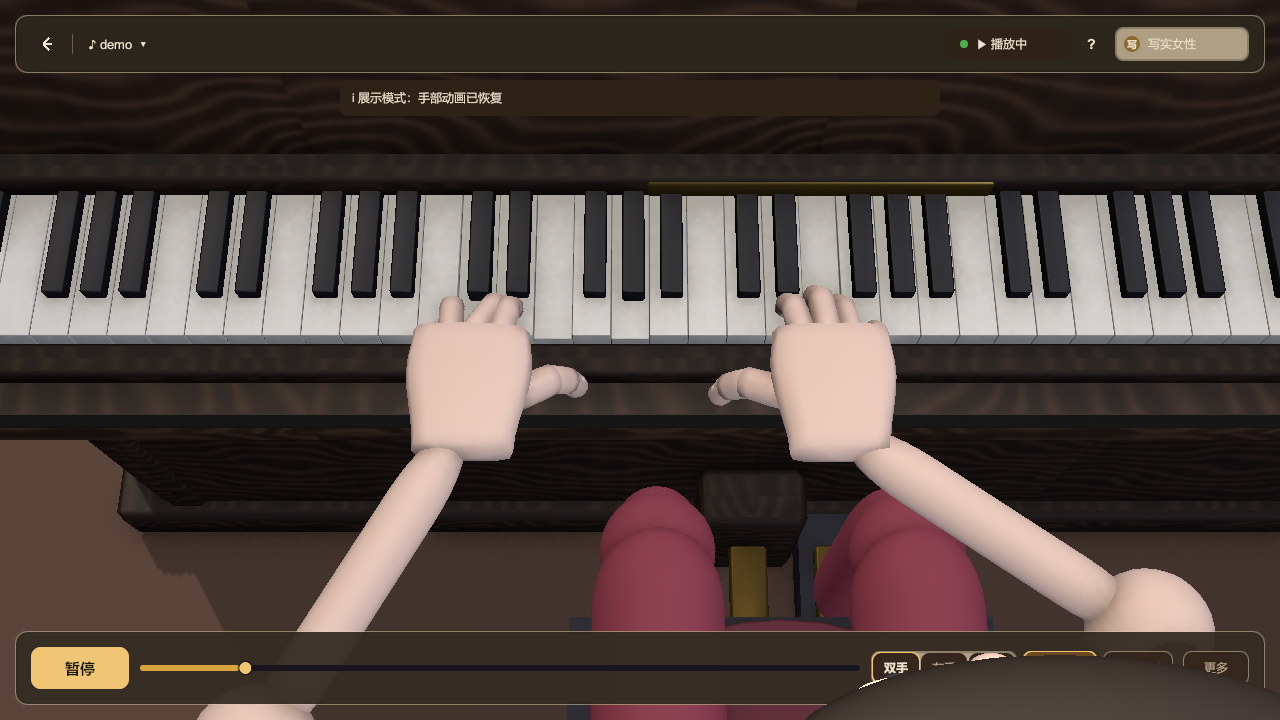
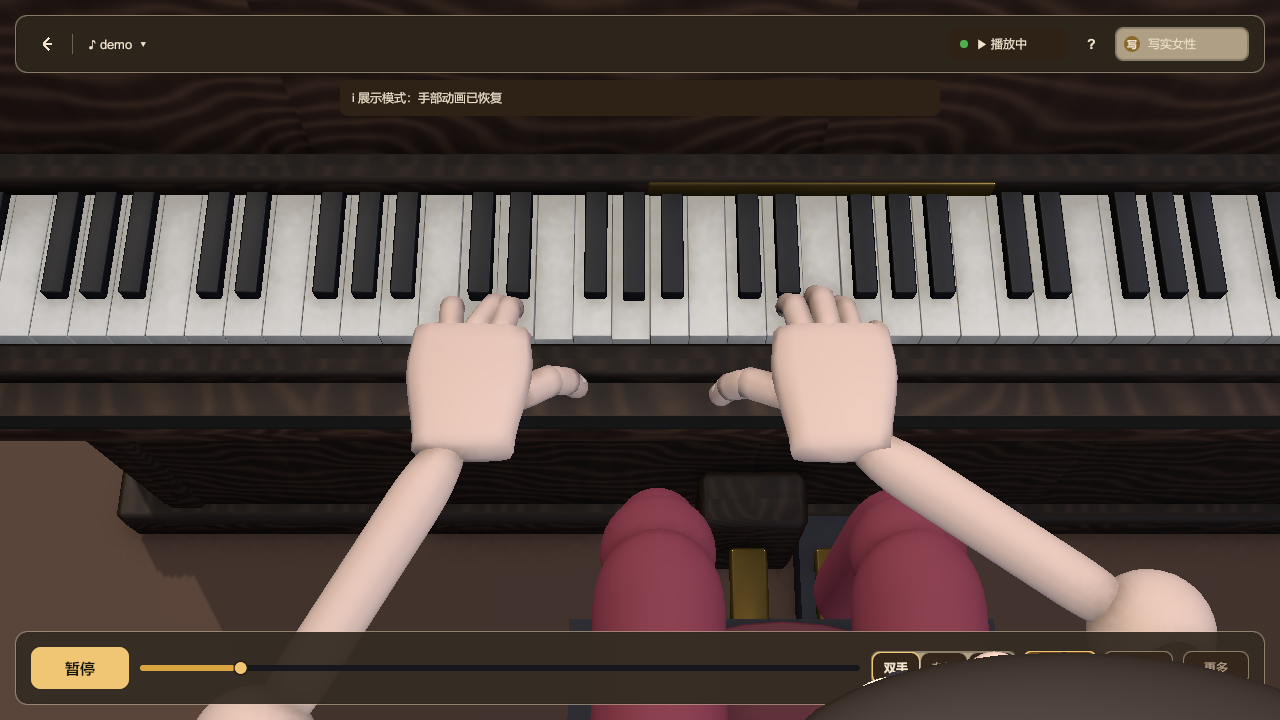
feat(render): 全局 Volume（Bloom/Vignette/色彩微调）+ 相机后处理开关
- 新增 Assets/Scripts/Core/ScenePostProcessing.cs：装配期建全局 Volume，
  Bloom(0.92/0.16) 只吃黄铜与高光、Vignette(0.18) 收拢视线、
  ColorAdjustments(对比 +9 / 饱和 +3 / 暖色滤镜)；
- LessonSessionController.BuildScene 在相机参数就绪后调用它，
  并给主相机打开 renderPostProcessing；
- 重采视觉基线（V19/V18 等已带后处理）。

验证：CaptureLessonViews 5/5 通过；全量 EditMode/PlayMode 回归留到下次。

diff --git a/Assets/Scripts/Core/ScenePostProcessing.cs b/Assets/Scripts/Core/ScenePostProcessing.cs
@@ -1,0 +1,74 @@
+using UnityEngine;
+using UnityEngine.Rendering;
+using UnityEngine.Rendering.Universal;
+
+namespace PianoTeacher3D.Core
+{
+    /// <summary>
+    /// 运行时构建全局 Volume（Bloom / Vignette / Color Adjustments），并给主相机打开后处理。
+    ///
+    /// 为什么在代码里建而不是存成 asset：整个场景本来就是装配期程序化生成的
+    /// （<see cref="LessonSessionController.BuildScene"/>），多一个二进制 profile 资产反而
+    /// 让「场景长什么样」分散到看不见的地方；这里的三个数值也足够小，直接写成常量更易读。
+    ///
+    /// 只在装配期调用一次；运行期由 URP 内部每帧求值，这里不再有托管分配。
+    /// </summary>
+    public static class ScenePostProcessing
+    {
+        /// <summary>Bloom 阈值：低于它的亮度不参与泛光，避免白键面整体发灰。</summary>
+        private const float BloomThreshold = 0.92f;
+
+        /// <summary>Bloom 强度：只给黄铜踏板、琴键高光与窗外冷光一点溢出，不做「发光滤镜」。</summary>
+        private const float BloomIntensity = 0.16f;
+
+        /// <summary>暗角强度：把视线收拢到键盘区域，同时压掉画面四角的空墙。</summary>
+        private const float VignetteIntensity = 0.18f;
+
+        /// <summary>
+        /// 建全局 Volume 并返回它的 profile。相机为空时也会建（音量本身与相机无关），
+        /// 只是没有相机可用时后处理不会显示。
+        /// </summary>
+        public static VolumeProfile Ensure(Camera camera, Transform parent, bool bloomEnabled = true)
+        {
+            if (camera != null)
+            {
+                var cameraData = camera.GetUniversalAdditionalCameraData();
+                if (cameraData != null) cameraData.renderPostProcessing = true;
+            }
+
+            var go = new GameObject("GlobalVolume");
+            if (parent != null) go.transform.SetParent(parent, false);
+
+            var volume = go.AddComponent<Volume>();
+            volume.isGlobal = true;
+            volume.priority = 0f;
+
+            var profile = ScriptableObject.CreateInstance<VolumeProfile>();
+            volume.sharedProfile = profile;
+
+            if (bloomEnabled)
+            {
+                var bloom = profile.Add<Bloom>(true);
+                bloom.threshold.Override(BloomThreshold);
+                bloom.intensity.Override(BloomIntensity);
+                bloom.scatter.Override(0.62f);
+                // 低配档位下 Bloom 走廉价路径：不做高质量过滤，也不叠多级 mip
+                bloom.highQualityFiltering.Override(false);
+            }
+
+            var vignette = profile.Add<Vignette>(true);
+            vignette.intensity.Override(VignetteIntensity);
+            vignette.smoothness.Override(0.45f);
+            vignette.color.Override(new Color(0.06f, 0.05f, 0.04f));
+
+            var adjustments = profile.Add<ColorAdjustments>(true);
+            adjustments.postExposure.Override(0.05f);
+            adjustments.contrast.Override(9f);
+            adjustments.saturation.Override(3f);
+            // 暖色滤镜：暖木 UI 与琴房的木质色调要一致，否则 UI 与场景像两套皮肤
+            adjustments.colorFilter.Override(new Color(1f, 0.97f, 0.93f));
+
+            return profile;
+        }
+    }
+}

diff --git a/Assets/Scripts/Core/LessonSessionController.cs b/Assets/Scripts/Core/LessonSessionController.cs
@@ -562,6 +562,10 @@ namespace PianoTeacher3D.Core
             RenderSettings.ambientEquatorColor = new Color(0.44f, 0.45f, 0.50f); // 地平：中性
             RenderSettings.ambientGroundColor = new Color(0.28f, 0.28f, 0.31f);  // 地面反射：暗偏暖
 
+            // 后处理：全局 Volume（Bloom / Vignette / 色彩微调）+ 相机 renderPostProcessing。
+            // 放在相机参数就绪之后、相机控制之前——控制器只负责摆机位，不该关心后期。
+            PianoTeacher3D.Core.ScenePostProcessing.Ensure(cam, transform);
+
             _camera = gameObject.AddComponent<CameraModeController>();
             _camera.Initialize(cam, _avatar, _keyMap);
             _camera.SetPracticeHand(_practiceHand);

diff --git a/Docs/screenshots/manifest.md b/Docs/screenshots/manifest.md
@@ -5,7 +5,7 @@
 > 对应文档：方案 **11.2 视觉回归**（10 个固定截图/场景用例）、**11.3/11.4 验收与自动化**、
 > **15 发布前检查清单**；审查 **3.2 视角可用性**、**6.1 画面基线组合 V01–V09**、**6.2 相机验收清单**。
 
-- 生成时间：2026-11-03 19:41:42
+- 生成时间：2026-11-03 20:07:05
 - 生成主机 Unity 版本：2022.3.22f1c1
 - 项目版本锁定值：2022.3.22f1c1（来源 ProjectSettings/ProjectVersion.txt）
 - 运行平台 / 图形设备：WindowsEditor / Direct3D11
@@ -25,35 +25,35 @@
 |---|---|---|---|---|---|---|---|---|---|---|
 | 01_full.png | 方案 11.2-2 | 写实女性（索引 0） | demo | 0.00 | 全景（Mode=Full, ModeLabel=全景）自由观察=False | 640×480（请求 1280×720） | 2022.3.22f1c1 | 2022.3.22f1c1 | 标准全景：键盘完整、低音端无遮挡、人物完整入画 | — |
 | 02_closeup.png | 方案 11.2-3 | 写实女性（索引 0） | demo | 0.00 | 手部特写（Mode=Closeup, ModeLabel=手部特写）自由观察=False | 640×480（请求 1280×720） | 2022.3.22f1c1 | 2022.3.22f1c1 | 手部特写（白键旋律）：掌心、指尖与相应琴键同时可见 | 高亮默认关闭，特写按活动手范围取景 |
-| 03_playing.png | 方案 11.2-2 | 写实女性（索引 0） | demo | 4.17 | 全景（Mode=Full, ModeLabel=全景）自由观察=False | 640×480（请求 1280×720） | 2022.3.22f1c1 | 2022.3.22f1c1 | 播放中全景：琴键动作与高亮同步、人物无穿模 | — |
-| 04_practice_left.png | 方案 11.2-6 | 写实女性（索引 0） | demo | 6.05 | 全景（Mode=Full, ModeLabel=全景）自由观察=False | 640×480（请求 1280×720） | 2022.3.22f1c1 | 2022.3.22f1c1 | 分手练习开启：相机聚焦活动手 | — |
+| 03_playing.png | 方案 11.2-2 | 写实女性（索引 0） | demo | 4.25 | 全景（Mode=Full, ModeLabel=全景）自由观察=False | 640×480（请求 1280×720） | 2022.3.22f1c1 | 2022.3.22f1c1 | 播放中全景：琴键动作与高亮同步、人物无穿模 | — |
+| 04_practice_left.png | 方案 11.2-6 | 写实女性（索引 0） | demo | 6.12 | 全景（Mode=Full, ModeLabel=全景）自由观察=False | 640×480（请求 1280×720） | 2022.3.22f1c1 | 2022.3.22f1c1 | 分手练习开启：相机聚焦活动手 | — |
 | 05_avatar_man.png | 方案 11.2-8 | 写实男性（索引 1） | demo | 7.50 | 全景（Mode=Full, ModeLabel=全景）自由观察=False | 640×480（请求 1280×720） | 2022.3.22f1c1 | 2022.3.22f1c1 | 不同人物切换后的同一机位：构图规律一致 | — |
 | 06_avatar_cartoon.png | 方案 11.2-8 | 卡通角色（索引 2） | demo | 7.50 | 全景（Mode=Full, ModeLabel=全景）自由观察=False | 640×480（请求 1280×720） | 2022.3.22f1c1 | 2022.3.22f1c1 | 不同人物切换后的同一机位：构图规律一致 | — |
-| V01_closeup_chord.png | 审查 6.1 V01 / 方案 11.2-4 | 写实女性（索引 2） | demo | 1.12 | 手部特写（Mode=Closeup, ModeLabel=手部特写）自由观察=False | 640×480（请求 1280×720） | 2022.3.22f1c1 | 2022.3.22f1c1 | 掌心、指尖、琴键可见；指法自然 | 曲内同时发声 4 音的中音区和弦（t=0.00s） |
+| V01_closeup_chord.png | 审查 6.1 V01 / 方案 11.2-4 | 写实女性（索引 2） | demo | 1.15 | 手部特写（Mode=Closeup, ModeLabel=手部特写）自由观察=False | 640×480（请求 1280×720） | 2022.3.22f1c1 | 2022.3.22f1c1 | 掌心、指尖、琴键可见；指法自然 | 曲内同时发声 4 音的中音区和弦（t=0.00s） |
 | V02_closeup_wide_leap.png | 审查 6.1 V02 / 3.2-1 | 写实女性（索引 2） | demo | 2.63 | 手部特写（Mode=Closeup, ModeLabel=手部特写）自由观察=False | 640×480（请求 1280×720） | 2022.3.22f1c1 | 2022.3.22f1c1 | 动态取景范围与阻尼：两手分开时画面不突然缩放 | 曲内 0.5s 窗口最大音域跨度 19 半音（pitch 48–67，t=1.50s）；内置示例曲音域有限，跨度不足属曲目内容限制 |
-| V03_full_arm_motion.png | 审查 6.1 V03 | 写实男性（索引 1） | demo | 6.63 | 全景（Mode=Full, ModeLabel=全景）自由观察=False | 640×480（请求 1280×720） | 2022.3.22f1c1 | 2022.3.22f1c1 | 坐姿、肩臂、完整键盘 | 曲内最大音程跳进 19 半音（t=3.50s），手臂运动在该片段最明显 |
-| V04_full_cartoon.png | 审查 6.1 V04 | 卡通角色（索引 2） | demo | 6.10 | 全景（Mode=Full, ModeLabel=全景）自由观察=False | 640×480（请求 1280×720） | 2022.3.22f1c1 | 2022.3.22f1c1 | 风格一致与取景适配 | 中等速度片段（曲目 40% 处） |
-| V05_left_hand_only.png | 审查 6.1 V05 / 3.2-3 | 写实女性（索引 0） | demo | 1.08 | 手部特写（Mode=Closeup, ModeLabel=手部特写）自由观察=False | 640×480（请求 1280×720） | 2022.3.22f1c1 | 2022.3.22f1c1 | 相机聚焦活动手 | 左手独立音型（t=0.00s） |
-| V06_right_hand_only.png | 审查 6.1 V06 / 3.2-4 | 写实女性（索引 0） | demo | 1.10 | 手部特写（Mode=Closeup, ModeLabel=手部特写）自由观察=False | 640×480（请求 1280×720） | 2022.3.22f1c1 | 2022.3.22f1c1 | 相机聚焦活动手 | 右手独立音型（t=0.00s） |
-| V07_free_orbit_paused.png | 审查 6.1 V07 | 写实女性（索引 0） | demo | 1.10 | 自由观察（Mode=Free, ModeLabel=自由观察）自由观察=True | 640×480（请求 1280×720） | 2022.3.22f1c1 | 2022.3.22f1c1 | 旋转/缩放、UI 鼠标操作边界 | 测试环境无法注入真实鼠标右键拖动：本图记录「进入自由观察 → 暂停」后的初始构图（进入时不跳变） |
-| V08_switch_settled.png | 审查 6.1 V08 | 写实女性（索引 0） | demo | 7.50 | 全景（Mode=Full, ModeLabel=全景）自由观察=False | 640×480（请求 1280×720） | 2022.3.22f1c1 | 2022.3.22f1c1 | 最终构图稳定、时间轴连续 | 播放中连续切换视角 5 次后等待 3s：IsTransitioning=True（期望 False）、时间从 4.65s 推进到 7.50s（时间轴连续） |
-| V09_closeup_loop.png | 审查 6.1 V09 | 写实女性（索引 0） | demo | 2.67 | 手部特写（Mode=Closeup, ModeLabel=手部特写）自由观察=False | 640×480（请求 1280×720） | 2022.3.22f1c1 | 2022.3.22f1c1 | 循环跳转后手位和相机不追旧目标 | A-B 循环 [2.63s, 3.23s]，IsLooping=True；等待跨越 B 点后再等 1.6s，此刻时间 2.65s |
+| V03_full_arm_motion.png | 审查 6.1 V03 | 写实男性（索引 1） | demo | 6.61 | 全景（Mode=Full, ModeLabel=全景）自由观察=False | 640×480（请求 1280×720） | 2022.3.22f1c1 | 2022.3.22f1c1 | 坐姿、肩臂、完整键盘 | 曲内最大音程跳进 19 半音（t=3.50s），手臂运动在该片段最明显 |
+| V04_full_cartoon.png | 审查 6.1 V04 | 卡通角色（索引 2） | demo | 6.12 | 全景（Mode=Full, ModeLabel=全景）自由观察=False | 640×480（请求 1280×720） | 2022.3.22f1c1 | 2022.3.22f1c1 | 风格一致与取景适配 | 中等速度片段（曲目 40% 处） |
+| V05_left_hand_only.png | 审查 6.1 V05 / 3.2-3 | 写实女性（索引 0） | demo | 1.11 | 手部特写（Mode=Closeup, ModeLabel=手部特写）自由观察=False | 640×480（请求 1280×720） | 2022.3.22f1c1 | 2022.3.22f1c1 | 相机聚焦活动手 | 左手独立音型（t=0.00s） |
+| V06_right_hand_only.png | 审查 6.1 V06 / 3.2-4 | 写实女性（索引 0） | demo | 1.11 | 手部特写（Mode=Closeup, ModeLabel=手部特写）自由观察=False | 640×480（请求 1280×720） | 2022.3.22f1c1 | 2022.3.22f1c1 | 相机聚焦活动手 | 右手独立音型（t=0.00s） |
+| V07_free_orbit_paused.png | 审查 6.1 V07 | 写实女性（索引 0） | demo | 1.11 | 自由观察（Mode=Free, ModeLabel=自由观察）自由观察=True | 640×480（请求 1280×720） | 2022.3.22f1c1 | 2022.3.22f1c1 | 旋转/缩放、UI 鼠标操作边界 | 测试环境无法注入真实鼠标右键拖动：本图记录「进入自由观察 → 暂停」后的初始构图（进入时不跳变） |
+| V08_switch_settled.png | 审查 6.1 V08 | 写实女性（索引 0） | demo | 7.50 | 全景（Mode=Full, ModeLabel=全景）自由观察=False | 640×480（请求 1280×720） | 2022.3.22f1c1 | 2022.3.22f1c1 | 最终构图稳定、时间轴连续 | 播放中连续切换视角 5 次后等待 3s：IsTransitioning=True（期望 False）、时间从 4.70s 推进到 7.50s（时间轴连续） |
+| V09_closeup_loop.png | 审查 6.1 V09 | 写实女性（索引 0） | demo | 2.71 | 手部特写（Mode=Closeup, ModeLabel=手部特写）自由观察=False | 640×480（请求 1280×720） | 2022.3.22f1c1 | 2022.3.22f1c1 | 循环跳转后手位和相机不追旧目标 | A-B 循环 [2.63s, 3.23s]，IsLooping=True；等待跨越 B 点后再等 1.6s，此刻时间 2.68s |
 | V10_mainmenu.png | 方案 11.2-1 | 不适用（主菜单场景） | 不适用（未进入课程） | — | 不适用（主菜单场景无 CameraModeController） | 640×480（请求 1280×720） | 2022.3.22f1c1 | 2022.3.22f1c1 | 主菜单空状态可操作：导入入口可见、无曲目时不显示可播放按钮 | 曲库有 1 首示例曲 → 主菜单显示曲目卡片；空曲库态需清空 Assets/StreamingAssets/Songs 后重跑才能复现（本次未生成空状态图） |
-| V11_highlight_on.png | 方案 11.2-5 | 写实女性（索引 0） | demo | 0.44 | 全景（Mode=Full, ModeLabel=全景）自由观察=False | 640×480（请求 1280×720） | 2022.3.22f1c1 | 2022.3.22f1c1 | 颜色语义正确（暖金=预提示、左蓝/右橙=发声），且高亮不遮挡手部 | 高亮模式 Both（暖金预提示 + 蓝/橙发声）；为同时呈现两种提示，临时把预提示提前量设为 1.2s（原 0.6s，截图后还原） |
+| V11_highlight_on.png | 方案 11.2-5 | 写实女性（索引 0） | demo | 0.42 | 全景（Mode=Full, ModeLabel=全景）自由观察=False | 640×480（请求 1280×720） | 2022.3.22f1c1 | 2022.3.22f1c1 | 颜色语义正确（暖金=预提示、左蓝/右橙=发声），且高亮不遮挡手部 | 高亮模式 Both（暖金预提示 + 蓝/橙发声）；为同时呈现两种提示，临时把预提示提前量设为 1.2s（原 0.6s，截图后还原） |
 | V12_analysis_expanded.png | 方案 11.2-7 | 写实女性（索引 0） | demo | 7.50 | 全景（Mode=Full, ModeLabel=全景）自由观察=False | 640×480（请求 1280×720） | 2022.3.22f1c1 | 2022.3.22f1c1 | 分析面板展开；动作质量默认折叠在「开发诊断」区 | 曲目分析面板展开=True、开发诊断展开=True（通过按钮 onClick 触发，未注入鼠标事件）；展开诊断后主画面仍未被过度覆盖（本次仅截图，遮挡断言见 CameraVisibilityTests 3.2-2） |
-| V13_teaching_mode.png | 新增：教学模式 / 展示模式 | 写实女性（索引 0） | demo | 1.04 | 手部特写（Mode=Closeup, ModeLabel=手部特写）自由观察=False | 640×480（请求 1280×720） | 2022.3.22f1c1 | 2022.3.22f1c1 | 教学模式：手部动画隐藏，只有被按下的琴键高亮（左手冷蓝 · 右手暖橙） | 显示模式=教学，手部可见=False，当前按下 4 个琴键、高亮 4 个琴键 |
+| V13_teaching_mode.png | 新增：教学模式 / 展示模式 | 写实女性（索引 0） | demo | 1.03 | 手部特写（Mode=Closeup, ModeLabel=手部特写）自由观察=False | 640×480（请求 1280×720） | 2022.3.22f1c1 | 2022.3.22f1c1 | 教学模式：手部动画隐藏，只有被按下的琴键高亮（左手冷蓝 · 右手暖橙） | 显示模式=教学，手部可见=False，当前按下 4 个琴键、高亮 4 个琴键 |
 | V14_showcase_mode.png | 新增：教学模式 / 展示模式 | 写实女性（索引 0） | demo | 1.05 | 手部特写（Mode=Closeup, ModeLabel=手部特写）自由观察=False | 640×480（请求 1280×720） | 2022.3.22f1c1 | 2022.3.22f1c1 | 展示模式：完整手部动画（与 V13 同机位、同曲目时刻，便于逐帧对照） | 显示模式=展示，手部可见=True，当前按下 4 个琴键 |
 | V15_rocketbox_character.png | 新增：写实角色（Rocketbox） | 写实女性（索引 0） | demo | 0.00 | 全景（Mode=Full, ModeLabel=全景）自由观察=False | 640×480（请求 1280×720） | 2022.3.22f1c1 | 2022.3.22f1c1 | 写实女性全景：皮肤与头发贴图完整、无白模、无碎片、手指自然弯曲 | 激活成功=True，角色=rocketbox.female01 |
-| V16_closeup_playing.png | 写实化三期 / 手部动态 | 写实女性（索引 2） | demo | 0.39 | 手部特写（Mode=Closeup, ModeLabel=手部特写）自由观察=False | 640×480（请求 1280×720） | 2022.3.22f1c1 | 2022.3.22f1c1 | 演奏中不暂停：指节弯曲与指尖接触可见（非冻结手型） | 曲内同时发声 4 音的中音区和弦（t=0.00s） |
+| V16_closeup_playing.png | 写实化三期 / 手部动态 | 写实女性（索引 2） | demo | 0.38 | 手部特写（Mode=Closeup, ModeLabel=手部特写）自由观察=False | 640×480（请求 1280×720） | 2022.3.22f1c1 | 2022.3.22f1c1 | 演奏中不暂停：指节弯曲与指尖接触可见（非冻结手型） | 曲内同时发声 4 音的中音区和弦（t=0.00s） |
 | V17_rocketbox_closeup_idle.png | v4 阶段 0 / 真实默认体验 | 写实女性（索引 0） | demo | 0.00 | 手部特写（Mode=Closeup, ModeLabel=手部特写）自由观察=False | 640×480（请求 1280×720） | 2022.3.22f1c1 | 2022.3.22f1c1 | 真人角色手部特写（空闲）：手掌、五指、琴键同时可见；头/躯干不遮挡键面 | Rocketbox 默认真人角色，停止态；用于判断手型与遮挡 |
-| V18_rocketbox_closeup_playing.png | v4 阶段 0 / 真实默认体验 | 写实女性（索引 0） | demo | 0.40 | 手部特写（Mode=Closeup, ModeLabel=手部特写）自由观察=False | 640×480（请求 1280×720） | 2022.3.22f1c1 | 2022.3.22f1c1 | 真人角色手部特写（演奏中，不暂停）：指节弯曲与指尖接触可见 | t=0.00s，播放中抓帧 |
+| V18_rocketbox_closeup_playing.png | v4 阶段 0 / 真实默认体验 | 写实女性（索引 0） | demo | 0.39 | 手部特写（Mode=Closeup, ModeLabel=手部特写）自由观察=False | 640×480（请求 1280×720） | 2022.3.22f1c1 | 2022.3.22f1c1 | 真人角色手部特写（演奏中，不暂停）：指节弯曲与指尖接触可见 | t=0.00s，播放中抓帧 |
 | V19_rocketbox_full.png | v4 阶段 0 / 真实默认体验 | 写实女性（索引 0） | demo | 0.00 | 全景（Mode=Full, ModeLabel=全景）自由观察=False | 640×480（请求 1280×720） | 2022.3.22f1c1 | 2022.3.22f1c1 | 真人角色全景：坐姿、琴凳、琴体、键面完整；无穿模与悬空 | Rocketbox 默认真人角色，停止态 |
-| V20_rocketbox_pedal.png | v4 阶段 1 / 延音踏板 | 写实女性（索引 0） | demo | 1.50 | 全景（Mode=Full, ModeLabel=全景）自由观察=False | 640×480（请求 1280×720） | 2022.3.22f1c1 | 2022.3.22f1c1 | 真人角色演奏中：延音踏板踩下时右脚脚尖抬起、脚跟着地 | 与 V19 同机位，播放中命中踏板区间 |
+| V20_rocketbox_pedal.png | v4 阶段 1 / 延音踏板 | 写实女性（索引 0） | demo | 1.52 | 全景（Mode=Full, ModeLabel=全景）自由观察=False | 640×480（请求 1280×720） | 2022.3.22f1c1 | 2022.3.22f1c1 | 真人角色演奏中：延音踏板踩下时右脚脚尖抬起、脚跟着地 | 与 V19 同机位，播放中命中踏板区间 |
 | V21_avatar_select.png | v4 阶段 1 / 角色库 | 写实女性（索引 0） | demo | 0.00 | 全景（Mode=Full, ModeLabel=全景）自由观察=False | 640×480（请求 1280×720） | 2022.3.22f1c1 | 2022.3.22f1c1 | 三张竖版人像卡：写实女性 / 写实男性 / 儿童，缩略图取自模型头部贴图 | 打开角色库面板后截图（面板默认收起） |
 | V24_menu_characters.png | 主菜单 / 角色浮层 | 不适用（主菜单浮层） | 不适用（未进入课程） | — | 不适用（主菜单场景无 CameraModeController） | 640×480（请求 1280×720） | 2022.3.22f1c1 | 2022.3.22f1c1 | 三张人像预览卡（写实女性 / 写实男性 / 儿童）+「进入课程后可切换」说明 | 主菜单点「角色」入口卡后截图 |
 | V25_menu_settings.png | 主菜单 / 设置浮层 | 不适用（主菜单浮层） | 不适用（未进入课程） | — | 不适用（主菜单场景无 CameraModeController） | 640×480（请求 1280×720） | 2022.3.22f1c1 | 2022.3.22f1c1 | 画质三档 chips（取自 QualitySettings.names）+ 全屏开关 + 快捷键说明 | 主菜单点「设置」入口卡后截图 |
 | V26_menu_songs.png | 主菜单 / 选曲浮层 | 不适用（主菜单浮层） | 不适用（未进入课程） | — | 不适用（主菜单场景无 CameraModeController） | 640×480（请求 1280×720） | 2022.3.22f1c1 | 2022.3.22f1c1 | 曲目清单（最多 8 行，含文件大小）+ 底部「导入 MIDI…」 | 主菜单点「选曲」入口卡后截图 |
-| V27_more_panel.png | 方案 3.1 底栏单行 | 写实女性（索引 0） | demo | 4.61 | 全景（Mode=Full, ModeLabel=全景）自由观察=False | 640×480（请求 1280×720） | 2022.3.22f1c1 | 2022.3.22f1c1 | 低频工具收进「更多」浮层，底栏只留 播放 / 时间 / 进度 / 手型 / 速度 / 循环 | 浮层贴底栏右上角，两行工具：视角·重播·高亮·节拍器 / 展示·分析·拍点·循环范围 |
+| V27_more_panel.png | 方案 3.1 底栏单行 | 写实女性（索引 0） | demo | 4.60 | 全景（Mode=Full, ModeLabel=全景）自由观察=False | 640×480（请求 1280×720） | 2022.3.22f1c1 | 2022.3.22f1c1 | 低频工具收进「更多」浮层，底栏只留 播放 / 时间 / 进度 / 手型 / 速度 / 循环 | 浮层贴底栏右上角，两行工具：视角·重播·高亮·节拍器 / 展示·分析·拍点·循环范围 |
 
 ## 如何新增 / 更新基线
 
